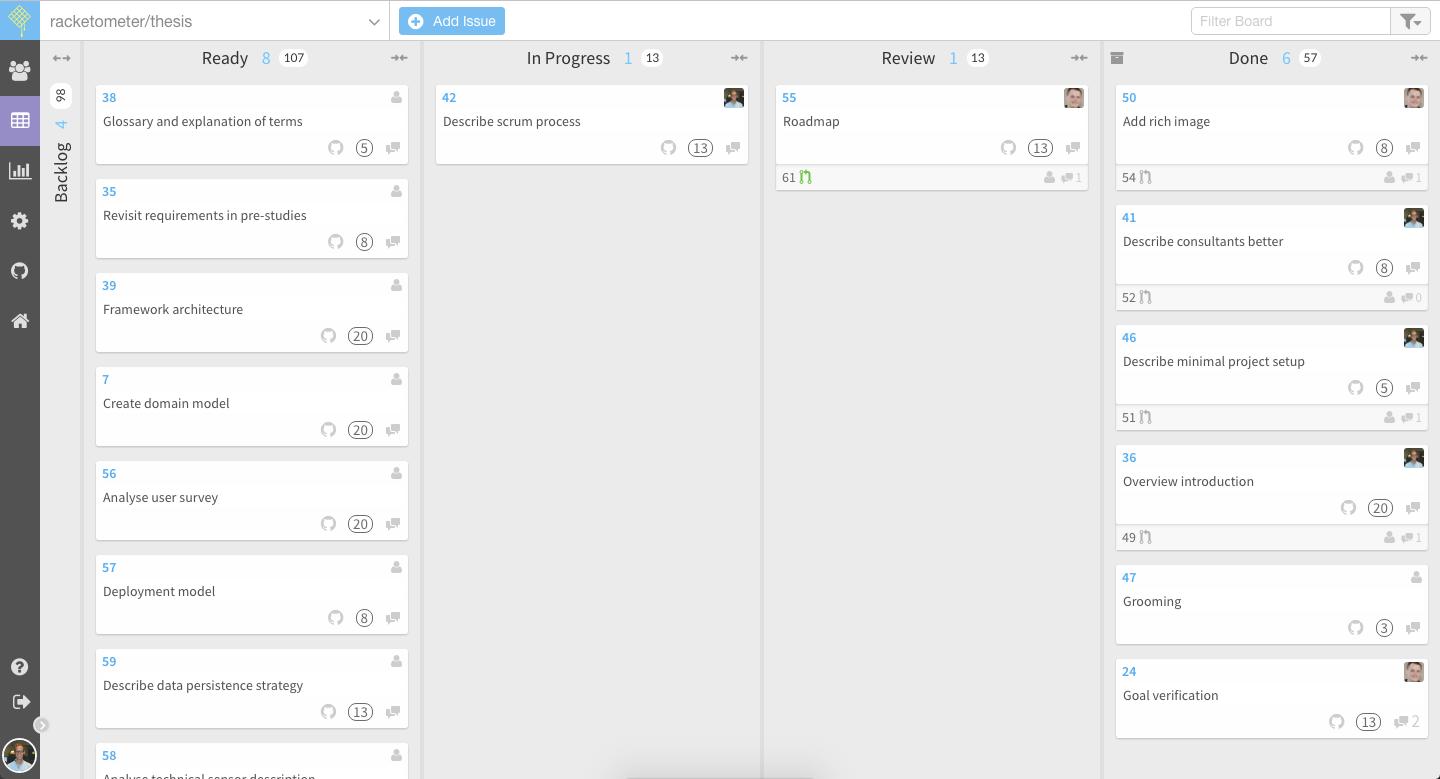
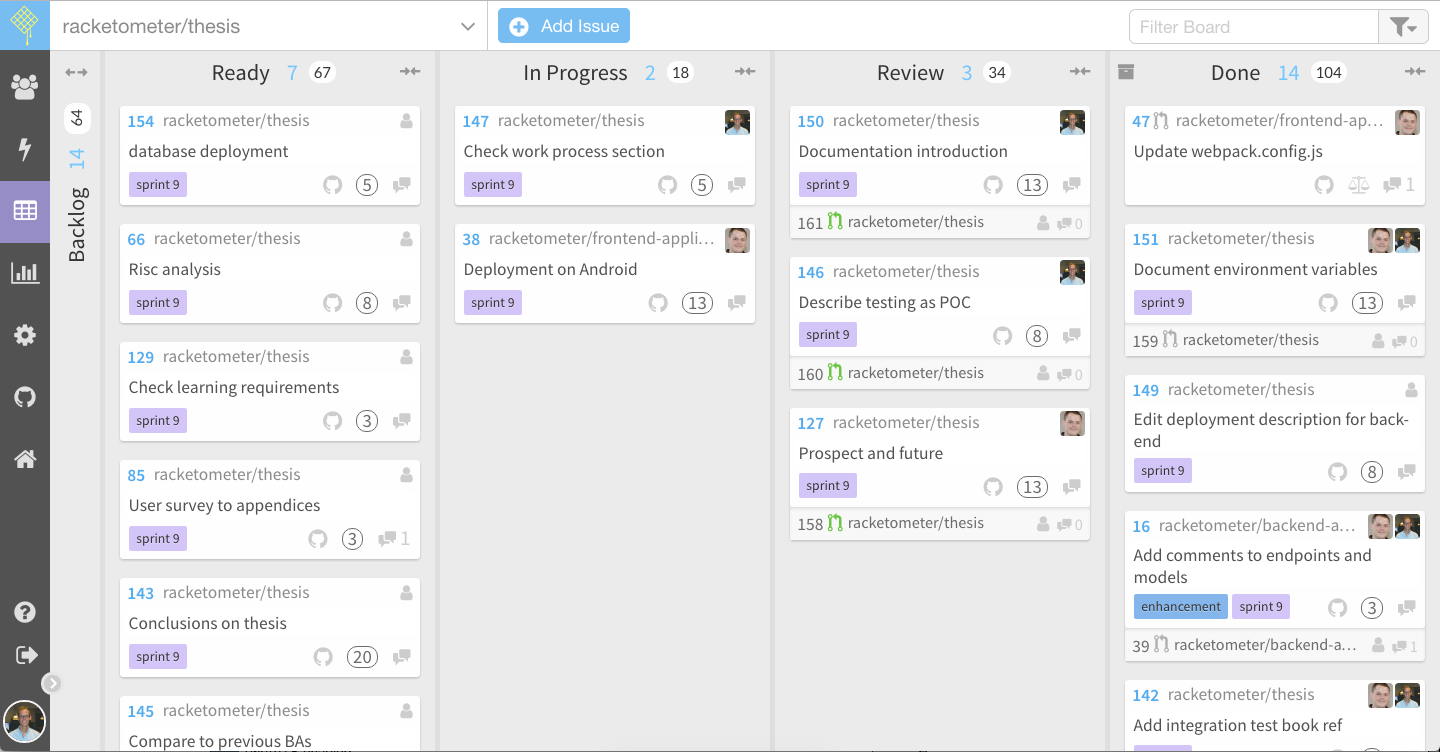
Update work process (#163)
* Update work process

* Update introduction.tex

diff --git a/thesis/introduction.tex b/thesis/introduction.tex
@@ -39,7 +39,8 @@ Since this is the unique feature, it is also going to be the focus point for the
 
 \graphic{0.8}{rich_vision_with_focus.png}{The parts this project will focus on}{fig:introduction:visionBoundaries}
 
-\section{External collaboration}\label{sec:externalCollaboration}
+\section{External collaboration}
+\label{sec:externalCollaboration}
 As this is a software project we have allied with two external consultants.
 They are responsible for the development of the physical smart racket and the electronics inside.
 Further more they have great knowledge of the badminton community and a great personal network with club managers, coaches and players that can be used for testing, research of user demands and alike.
@@ -47,36 +48,39 @@ They will be referred to as the ''consultants'' throughout this report.
 An interview with the consultants were conducted in the initial phase of the project as seen in appendix \ref{appendix:consultantsInterview}.
 
 \section{Work process}
-The project process is managed with the agile \gls{scrum} development framework as this is the most popular methodology in software development \citep{introduction:work:scrum}. 
-The flow of events utilized in the process are as follows.
-A grooming session is held to discuss and define new tasks for the project.
-This is a returning event in every sprint and makes sure the \textit{Backlog} is prioritized and up to date.
+The project process is managed with the agile \glsi{scrum} development framework as this is the most popular methodology in software development \citep{introduction:work:scrum}. 
+In the initial weeks of the project, sprints with one and two weeks duration was tested out.
+The latter fit us the most as it covered enough work to make progress and little enough to assess.
+The flow of events in the sprint process are as follows.
+A grooming session is held, at the end of each sprint, to discuss and define new tasks for the project to make sure the \textit{Backlog} is prioritized and up to date.
 
-The \textit{Backlog} is holding all tasks to be carried out.
-They are all estimated with \glspl{scrum:point}, an arbitrary value of how large a given task is.
-This is an estimate and the team is ''learning by doing'' what a single \gls{scrum:point} means.
-The number of points to burn down each sprint is set by comparing the former sprints total burndown and the expected available resources in the coming sprint.
-Each sprint is set for two weeks. 
-This was evaluated in the initial weeks of the project where sprints with one and two weeks duration was tested out.
-The latter one was what fit us the most as this covered enough work to make progress and little enough to assess.
+The \textit{Backlog} is holding all the tasks to be carried out, each of which are estimated with \glspli{scrum:point}, an arbitrary value of how large a given task is.
+This is an estimate and the team is ''learning by doing'' what a single \glsi{scrum:point} means.
+The number of points to plan in each sprint is set, by comparing the former sprints total throughput and the expected available resources in the coming sprint.
+Over the nine sprints we have completed around 120 \glspli{scrum:point} in each sprint as seen on figure \ref{fig:introduction:throughput}.
 
-In the grooming sessions a non-formal \textit{retrospective}, i.e. reflection of the sprint, is held. 
-If any tasks were not finished in the current sprint, it is decided if they should be moved into the new sprint or the \textit{Backlog} for latter completion.
+\graphic{1}{throughput}{Throughput graph showing the completed \glspli{scrum:point} of each week}{fig:introduction:throughput}
+
+In the grooming sessions a non-formal \textit{retrospective}, i.e. reflection of the sprint, was held. 
+If any tasks were not finished in the current sprint, it was decided if they should be moved into the new sprint or the \textit{Backlog} for later completion.
 
 Visualization of tasks and their states is done with an online \gls{scrum:board}.
-The tool used was decided in a pre-study, see section \ref{preStudy:scrum}.
-On figure \ref{fig:introduction:scrumBoard} is a snapshot of the sprint at the time of writing.
-On the left, column \textit{Ready}, is the tasks ready to be completed in the sprint.
-Just left of this column is a collapsed column with the \textit{Backlog}.
-Next to this is the \textit{In Progress} column holding all tasks currently being worked upon.
+The tool used is \textit{Waffle}, as was decided in a pre-study, section \ref{preStudy:scrum}.
+On figure \ref{fig:introduction:scrumBoard} is a screenshot of the sprint at the time of writing.
+The \textit{Backlog} is in the collapsed column to the far left.
+Next is the \textit{Ready} column, with tasks ready to be completed in the sprint.
+Next is the \textit{In Progress} column holding all tasks currently being worked upon.
 After a task is done it moves to the \textit{Review} column where it is reviewed by a team member.
-When the review is done and there are no comments or they are resolved, the tasks is placed in the \textit{Done} column.
+When the review has approved the changes the tasks are placed in the \textit{Done} column.
 
-To make the management of tasks as easy as possible, the used tool synchronizes with \textit{Git} branches, i.e. in progress work in version control. 
+\graphic{1}{scrumBoard}{Screenshot of the \textit{Waffle} scrum board}{fig:introduction:scrumBoard}
+
+To make the management of tasks as easy as possible, the used tool synchronizes with \textit{Git} branches, i.e. in-progress work in version control. 
 When a new branch is created in \textit{Git}, referencing a task number, it is moved to \textit{In Progress}. 
-When a \textit{Pull Request}, i.e. the changes are ready to be merged into the \textit{master} branch, the task is moved to \textit{Review} and finally if the \textit{Pull Request} is closed and merged, the task is put in \textit{Done}.
+When a \textit{Pull Request}, i.e. changes ready to be merged into the \textit{master} branch, is opened, the task is moved to \textit{Review} and finally if the \textit{Pull Request} is merged and closed, the task is put in \textit{Done}.
 
-\graphic{1}{scrumBoard}{Snapshot of the Scrum board}{fig:introduction:scrumBoard}
+The flow and use of this board has been nothing but fantastic.
+We have had great overview of the tasks and the development as well as thesis and documentation writing have been handled with ease.
 
 \section{Roadmap}
 In planning what we can achieve during this project, a roadmap was created with milestones and dates. 

diff --git a/shared/glossary.tex b/shared/glossary.tex
@@ -70,12 +70,12 @@
 }
 
 \newglossaryentry{scrum:board}{
-    name = {Scrum board},
-    description = {A board consisting of columns named after task states. Tasks move from left to right over the board an visualize the progress of the current sprint}
+    name = {scrum board},
+    description = {A board consisting of columns named after task states. Tasks move from left to right over the board and visualize the progress of the current sprint}
 }
 
 \newglossaryentry{scrum:point}{
-    name = {Scrum point},
+    name = {scrum point},
     description = {An arbitrary measure of the effort to complete a \gls{scrum} task}
 }
 
